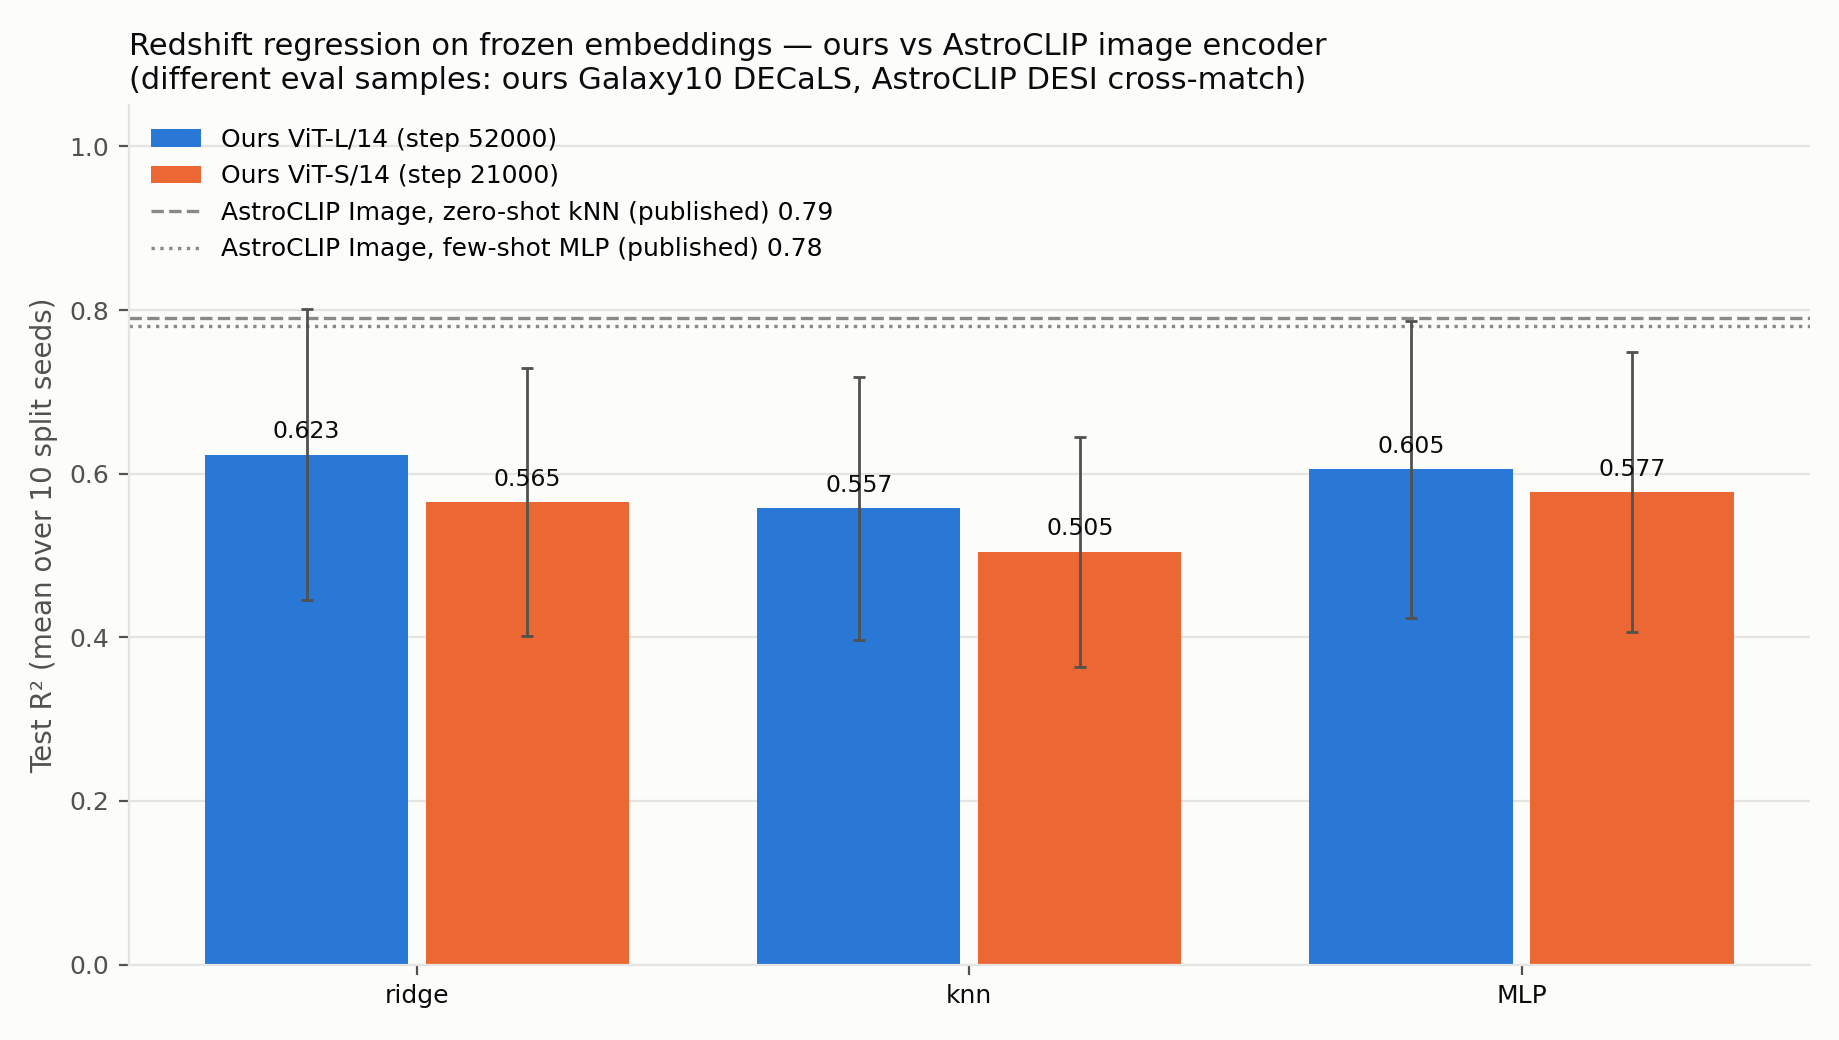
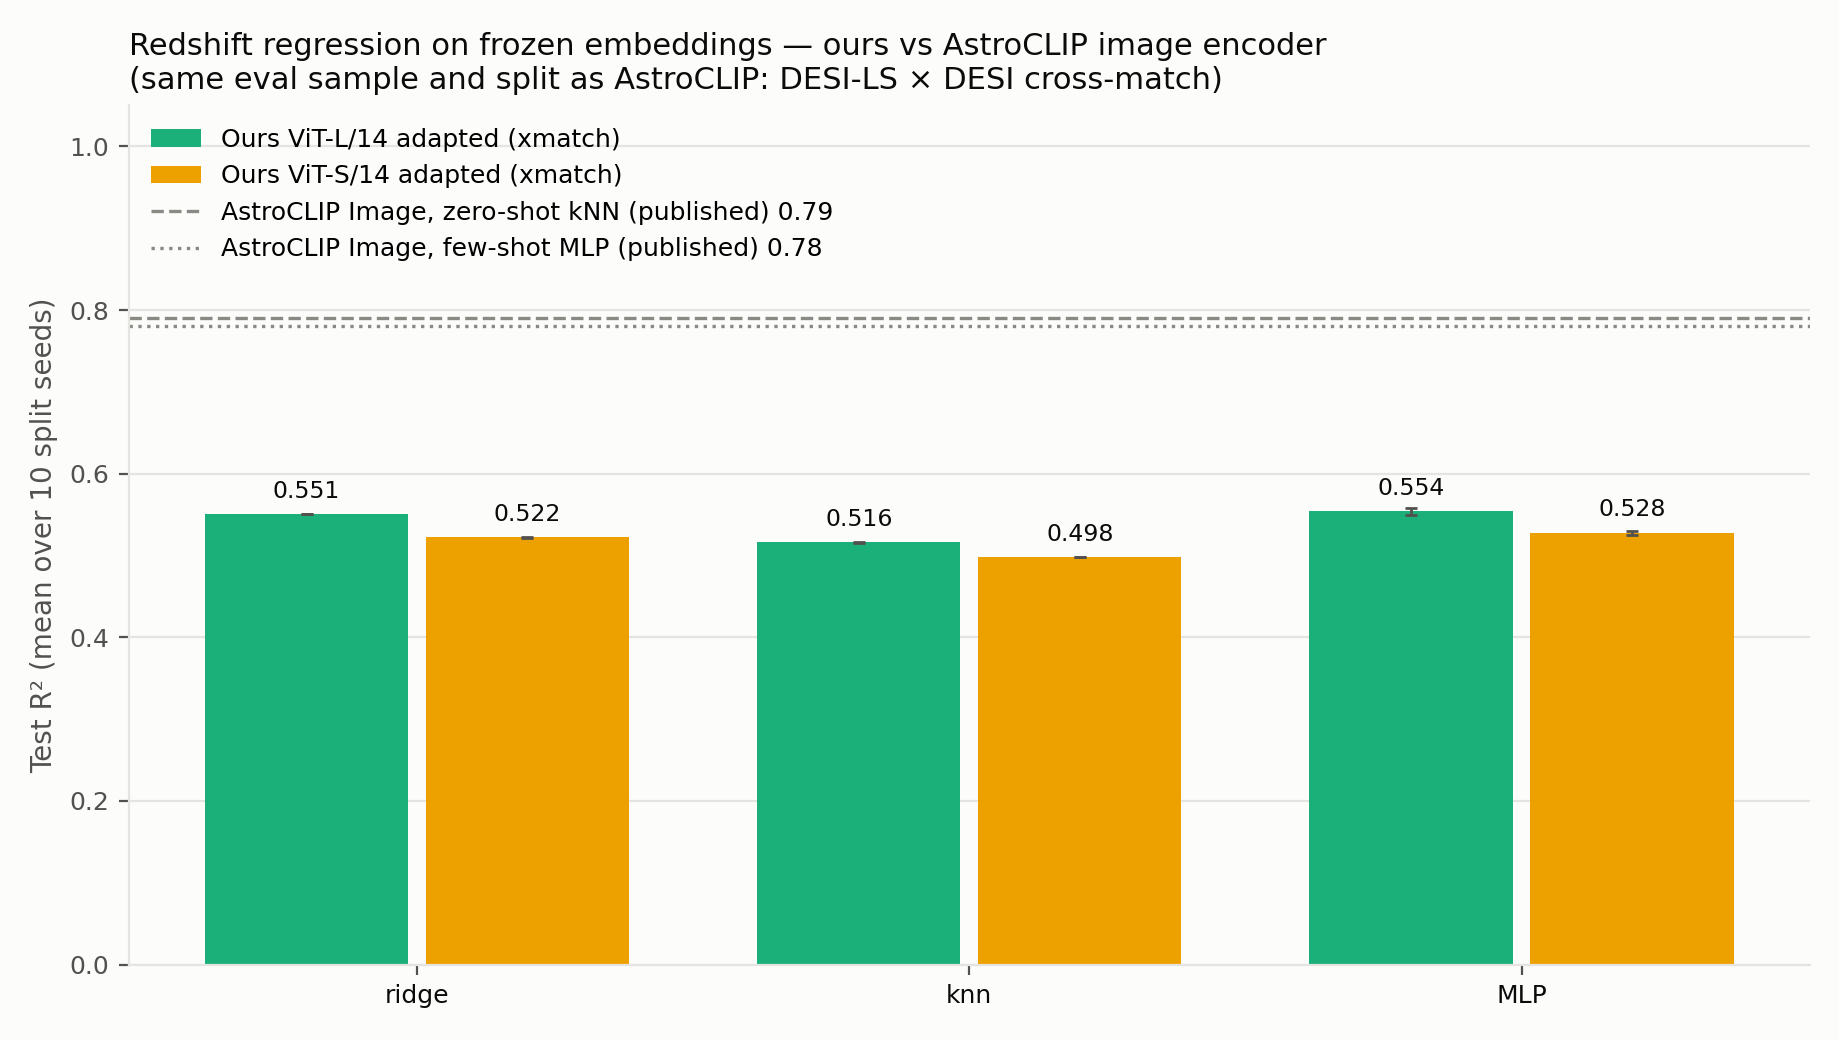
Name and color the adapted checkpoints in the comparison
Adapted xmatch labels get readable names and distinct palette slots
(aqua/yellow) instead of both falling back to the same color;
regenerated comparison outputs now include the adapted rows.

diff --git a/Evals/competitor_comparison/compare_competitors.py b/Evals/competitor_comparison/compare_competitors.py
@@ -57,10 +57,15 @@ FAMILY_LABELS = {
 MODEL_LABELS = {
     "astro_vit_large_step_52000": "Ours ViT-L/14 (step 52000)",
     "astro_vit_small_step_21000": "Ours ViT-S/14 (step 21000)",
+    "vit_large_adapted_xmatch": "Ours ViT-L/14 adapted (xmatch)",
+    "vit_small_adapted_xmatch": "Ours ViT-S/14 adapted (xmatch)",
 }
+OURS_YELLOW = "#eda100"
 MODEL_COLORS = {
     "astro_vit_large_step_52000": OURS_BLUE,
     "astro_vit_small_step_21000": OURS_ORANGE,
+    "vit_large_adapted_xmatch": OURS_AQUA,
+    "vit_small_adapted_xmatch": OURS_YELLOW,
 }
 GZD5_QUESTIONS = [
     "smooth",

diff --git a/Evals/competitor_comparison/results/comparison_tables.md b/Evals/competitor_comparison/results/comparison_tables.md
@@ -47,6 +47,18 @@ Caveats: Same question set and debiased-label protocol as our gzd5_morphology_pr
 | Ours ViT-S/14 (step 21000) | ridge on frozen image embeddings | Galaxy10 DECaLS | 0.5648 ± 0.1638 | 0.6740 ± 0.0196 | local |
 | Ours ViT-S/14 (step 21000) | knn on frozen image embeddings | Galaxy10 DECaLS | 0.5046 ± 0.1405 | 0.5973 ± 0.0189 | local |
 | Ours ViT-S/14 (step 21000) | mlp on frozen image embeddings | Galaxy10 DECaLS | 0.5773 ± 0.1712 | 0.6863 ± 0.0255 | local |
+| Ours ViT-L/14 adapted (xmatch) | ridge on frozen image embeddings | Galaxy10 DECaLS | 0.6284 ± 0.1805 | 0.7482 ± 0.0152 | local |
+| Ours ViT-L/14 adapted (xmatch) | knn on frozen image embeddings | Galaxy10 DECaLS | 0.5611 ± 0.1600 | 0.6680 ± 0.0166 | local |
+| Ours ViT-L/14 adapted (xmatch) | mlp on frozen image embeddings | Galaxy10 DECaLS | 0.6194 ± 0.1778 | 0.7383 ± 0.0246 | local |
+| Ours ViT-S/14 adapted (xmatch) | ridge on frozen image embeddings | Galaxy10 DECaLS | 0.5768 ± 0.1679 | 0.6876 ± 0.0175 | local |
+| Ours ViT-S/14 adapted (xmatch) | knn on frozen image embeddings | Galaxy10 DECaLS | 0.5196 ± 0.1504 | 0.6173 ± 0.0177 | local |
+| Ours ViT-S/14 adapted (xmatch) | mlp on frozen image embeddings | Galaxy10 DECaLS | 0.5742 ± 0.1634 | 0.6838 ± 0.0270 | local |
+| Ours ViT-L/14 adapted (xmatch) | ridge on frozen image embeddings | AstroCLIP sample | 0.5506 ± 0.0002 | n/a | local |
+| Ours ViT-L/14 adapted (xmatch) | knn on frozen image embeddings | AstroCLIP sample | 0.5161 ± 0.0005 | n/a | local |
+| Ours ViT-L/14 adapted (xmatch) | mlp on frozen image embeddings | AstroCLIP sample | 0.5538 ± 0.0046 | n/a | local |
+| Ours ViT-S/14 adapted (xmatch) | ridge on frozen image embeddings | AstroCLIP sample | 0.5224 ± 0.0006 | n/a | local |
+| Ours ViT-S/14 adapted (xmatch) | knn on frozen image embeddings | AstroCLIP sample | 0.4981 ± 0.0002 | n/a | local |
+| Ours ViT-S/14 adapted (xmatch) | mlp on frozen image embeddings | AstroCLIP sample | 0.5277 ± 0.0024 | n/a | local |
 | AstroCLIP Image, zero-shot kNN | image | DESI-LS images cross-matched with DESI spectra | 0.79 | n/r | published |
 | AstroCLIP Image, few-shot MLP | image | DESI-LS images cross-matched with DESI spectra | 0.78 | n/r | published |
 | AstroCLIP Spectrum, few-shot MLP | spectrum | DESI-LS images cross-matched with DESI spectra | 0.98 | n/r | published |
